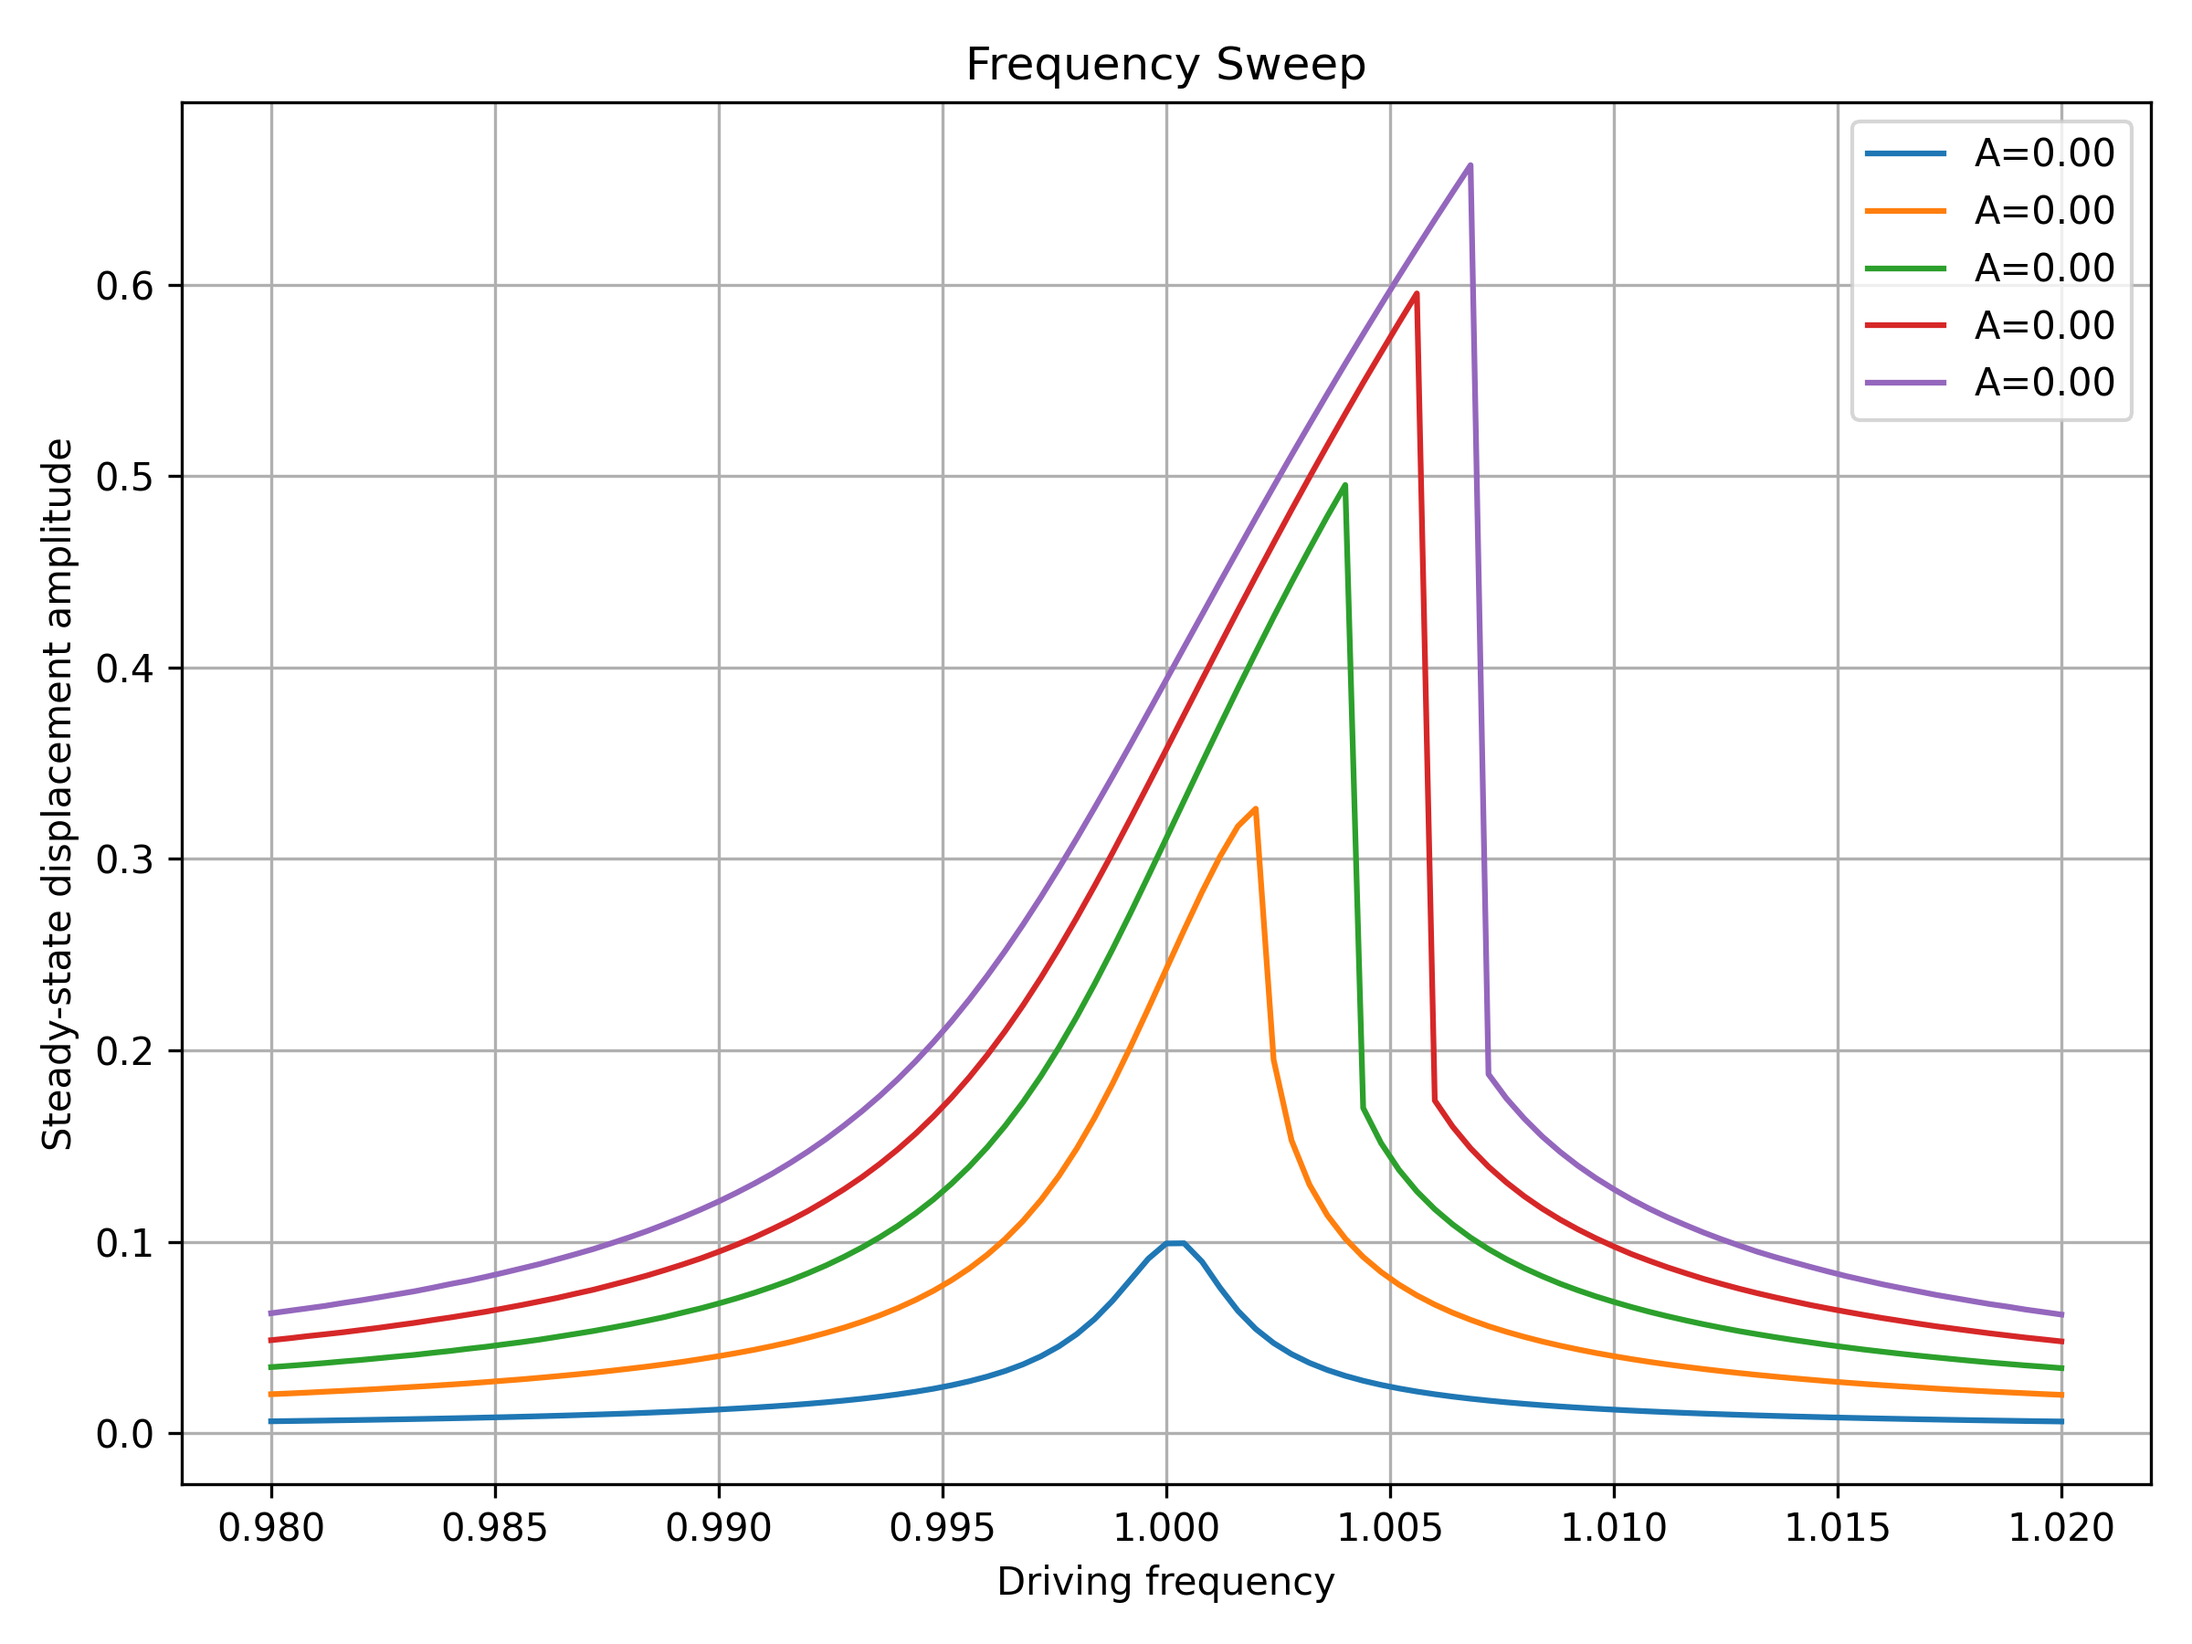
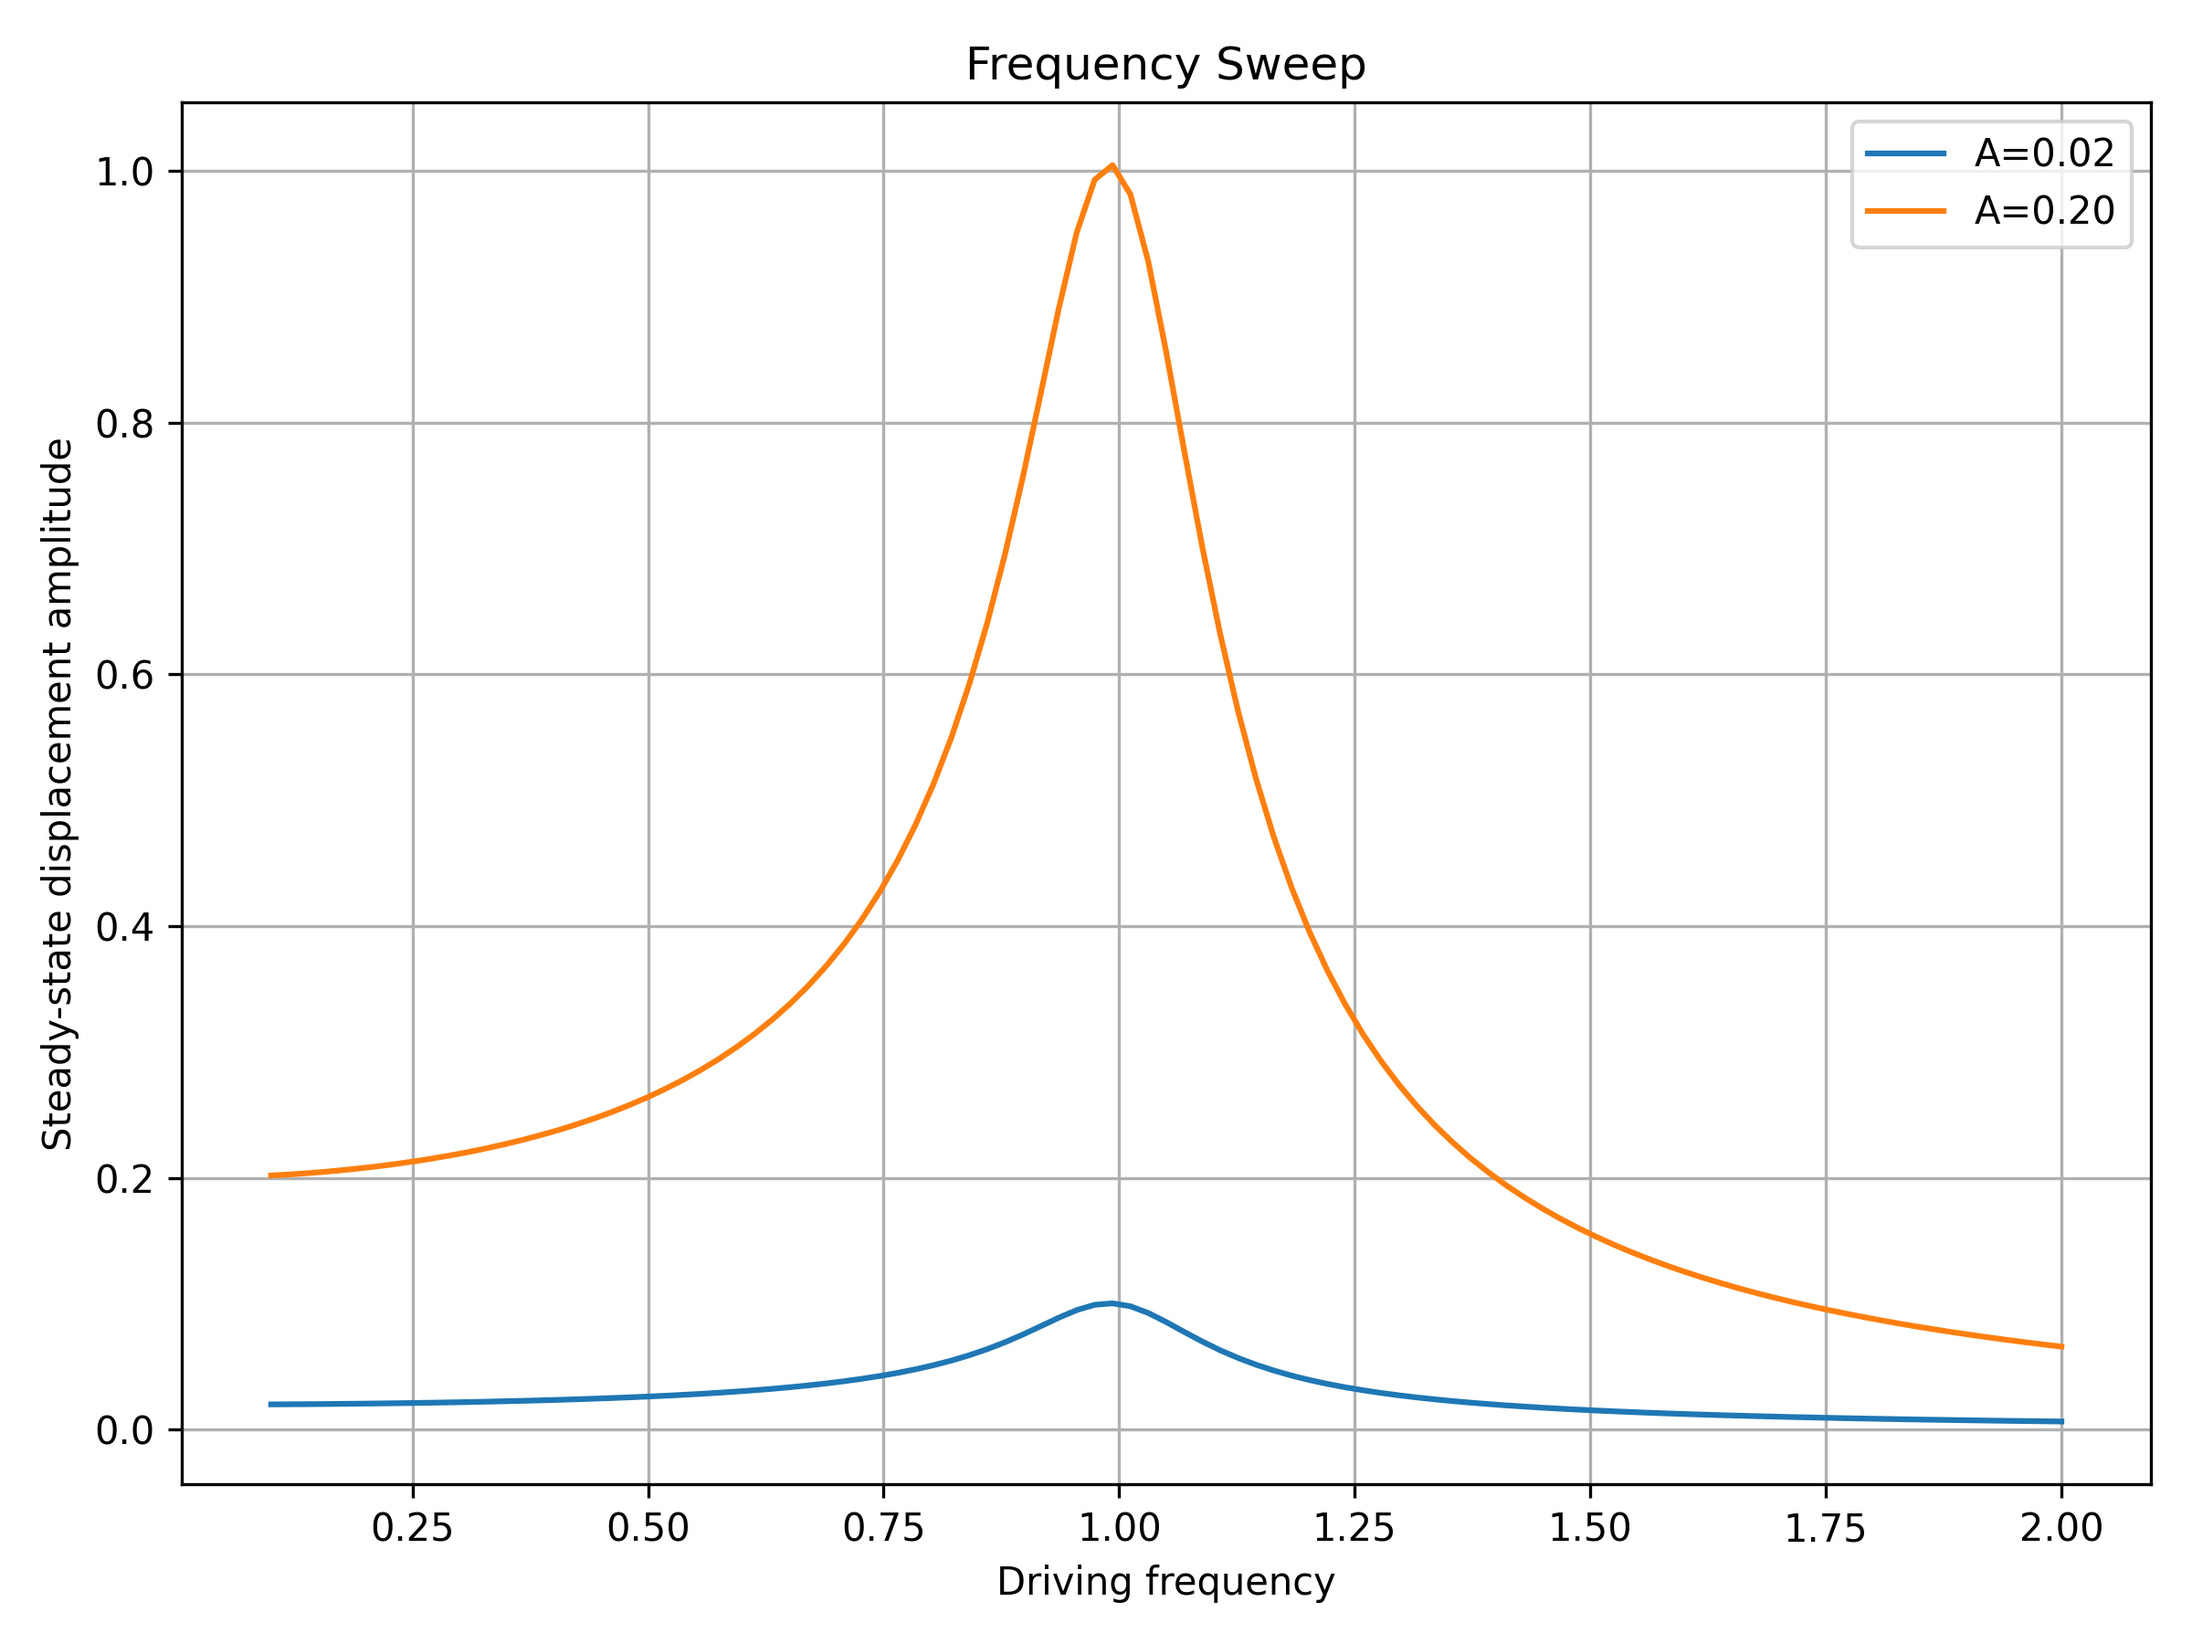
More experimenting

diff --git a/tests/frequency_sweep/test_frequency_sweep.py b/tests/frequency_sweep/test_frequency_sweep.py
@@ -2,13 +2,16 @@ from jax import numpy as jnp
 import time
 import oscidyn
 
-Q, omega_0, gamma = 400.0, 1.0, 0.05
+Q, omega_0, gamma = 5.0, 1.0, 0.0
+full_width_half_max = omega_0 / Q
+
 MODEL = oscidyn.BaseDuffingOscillator.from_physical_params(Q=jnp.array([Q]), gamma=jnp.array([gamma]), omega_0=jnp.array([omega_0]))
 SWEEP_DIRECTION = oscidyn.SweepDirection.FORWARD
-DRIVING_FREQUENCY = jnp.linspace(0.98, 1.02, 101)
-DRIVING_AMPLITUDE = jnp.linspace(0.1*omega_0**2/Q, 1.0*omega_0**2/Q, 5)
-SOLVER = oscidyn.FixedTimeSteadyStateSolver(max_steps=4_096*500, rtol=1e-4, atol=1e-9, progress_bar=True)
-PRECISION = oscidyn.Precision.SINGLE
+DRIVING_FREQUENCY = jnp.linspace(1.0 - 25*full_width_half_max, 1.0 + 25*full_width_half_max, 101)
+DRIVING_FREQUENCY = jnp.linspace(0.1, 2.0, 101)
+DRIVING_AMPLITUDE = jnp.linspace(0.1*omega_0**2/Q, 1.0*omega_0**2/Q, 2)
+SOLVER = oscidyn.FixedTimeSteadyStateSolver(max_steps=4_096*1000, rtol=1e-7, atol=1e-10, progress_bar=True)
+PRECISION = oscidyn.Precision.DOUBLE
 
 start_time = time.time()
 

diff --git a/src/oscidyn/simulation/constants.py b/src/oscidyn/simulation/constants.py
@@ -14,10 +14,10 @@ class ResponseType(Enum):
     FrequencyResponse = auto()
     TimeResponse      = auto()
 
-N_COARSE_DRIVING_FREQUENCIES = 50
-N_COARSE_DRIVING_AMPLITUDES = 3
-N_COARSE_INITIAL_DISPLACEMENTS= 11
-N_COARSE_INITIAL_VELOCITIES = 11
+N_COARSE_DRIVING_FREQUENCIES = 41
+N_COARSE_DRIVING_AMPLITUDES = 2
+N_COARSE_INITIAL_DISPLACEMENTS= 2
+N_COARSE_INITIAL_VELOCITIES = 2
 
 MAXIMUM_ORDER_SUBHARMONICS = 10
 MAXIMUM_ORDER_SUPERHARMONICS = 10

diff --git a/src/oscidyn/simulation/solver.py b/src/oscidyn/simulation/solver.py
@@ -33,7 +33,7 @@ class AbstractSolver:
         sol = diffrax.diffeqsolve(
             terms=diffrax.ODETerm(model.rhs_jit),
             solver=diffrax.Tsit5(),
-            adjoint=diffrax.RecursiveCheckpointAdjoint(),
+            #adjoint=diffrax.RecursiveCheckpointAdjoint(),
             t0=t0,
             t1=t1,
             dt0=None,
